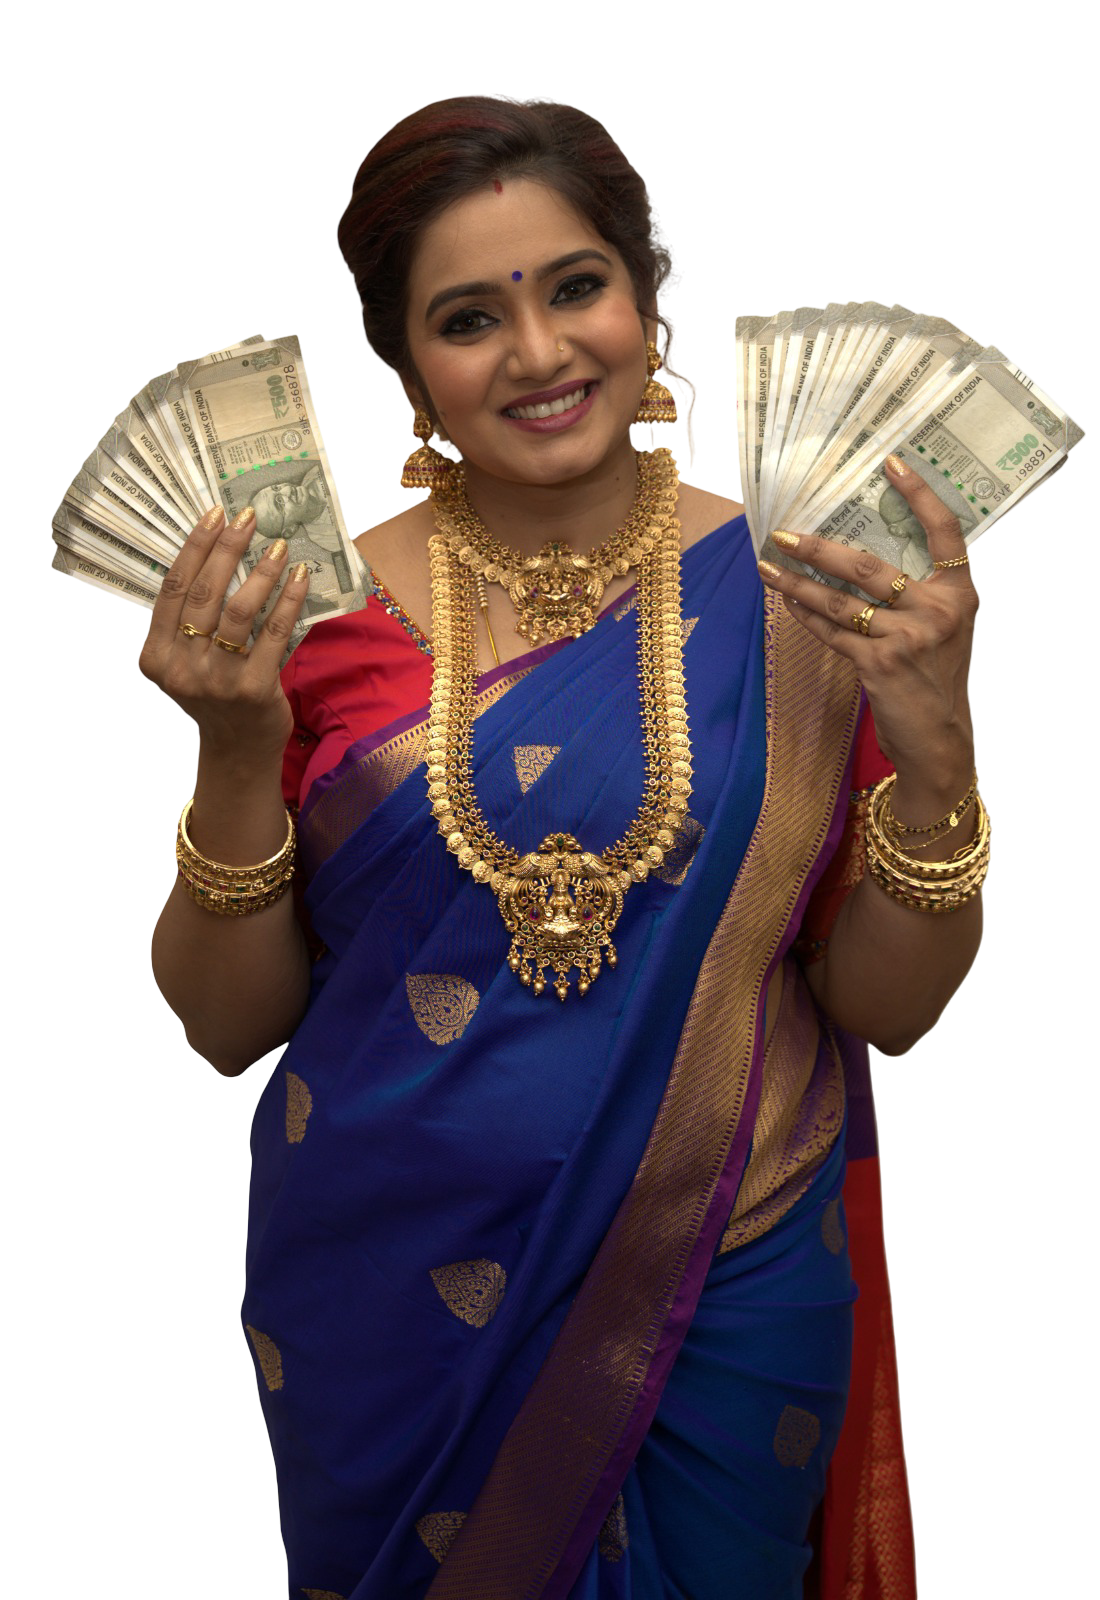
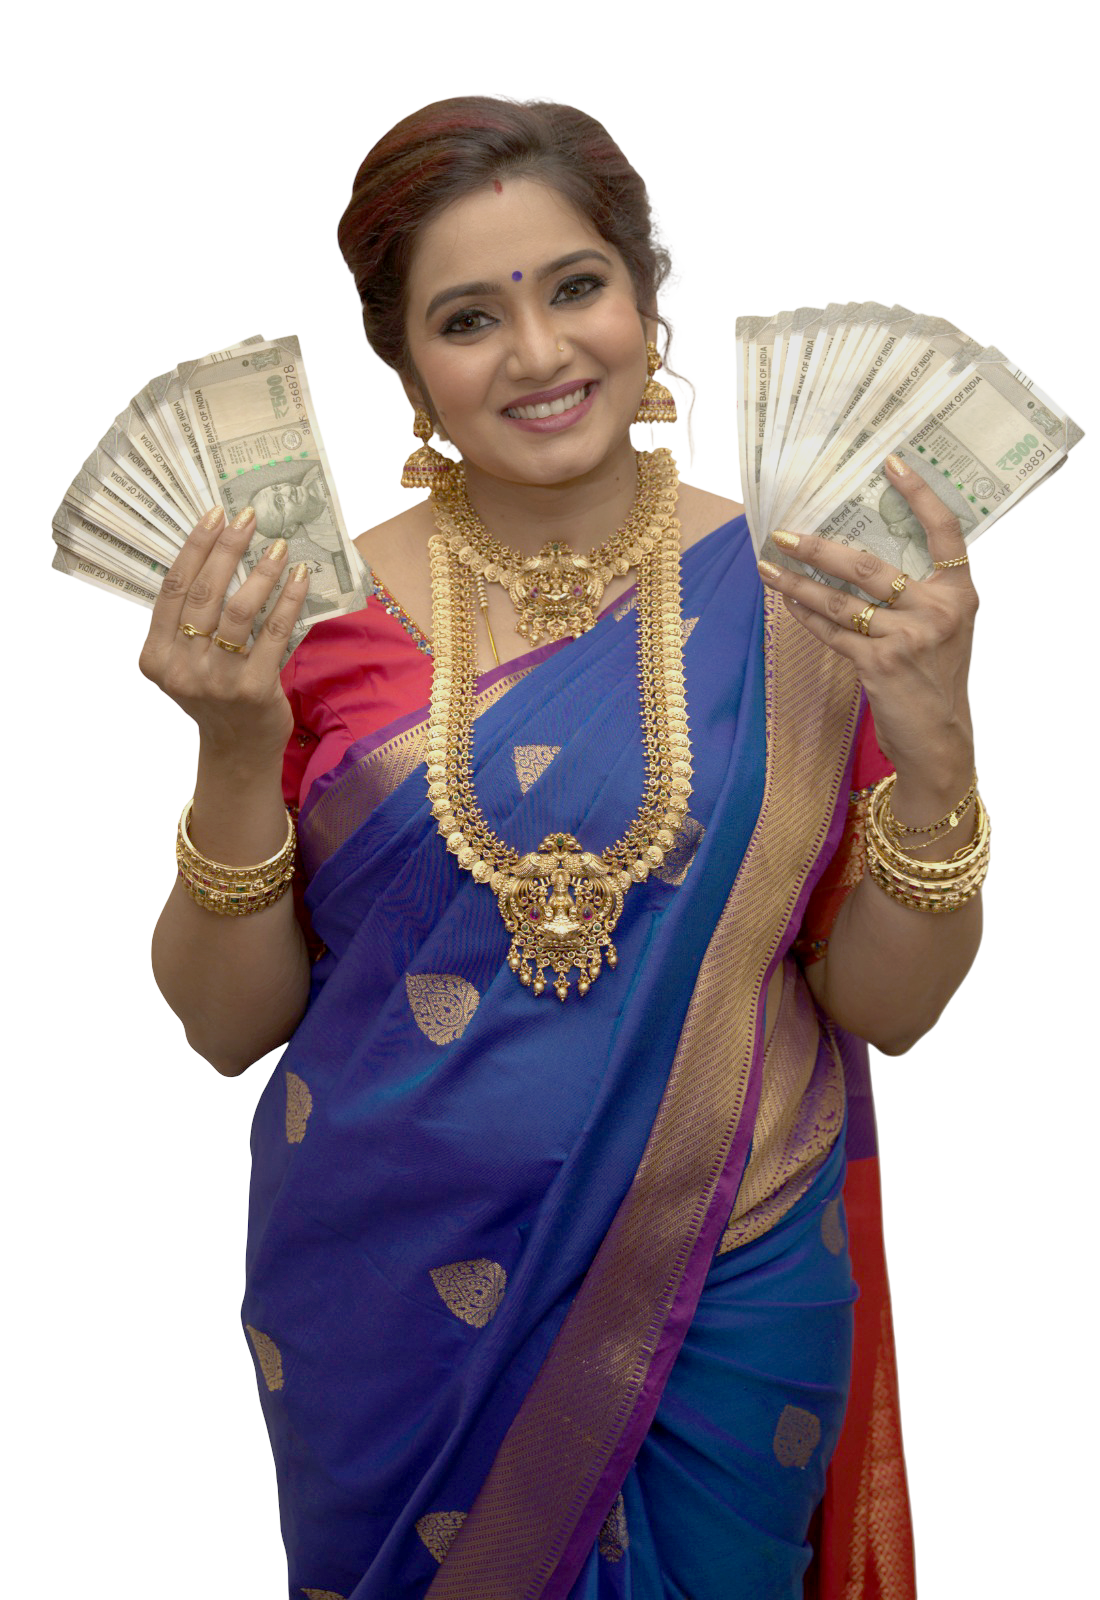
update'

diff --git a/style.css b/style.css
@@ -1055,10 +1055,9 @@ ul {
 .center-hero-img {
   width: 100%;
   max-width: 300px;
-  height: 430px;
+  height: 780px;
   object-fit: contain;
   object-position: center bottom;
-  animation: floatY 5.5s ease-in-out infinite;
   filter: drop-shadow(0 24px 55px rgba(139, 26, 26, 0.2));
   position: relative;
   z-index: 2;
@@ -1078,7 +1077,7 @@ ul {
 
 .center-img-ring {
   position: absolute;
-  top: 50%;
+  top: 60%;
   left: 50%;
   border-radius: 50%;
   border: 1px solid var(--border-maroon);
@@ -1231,13 +1230,13 @@ ul {
 /* STATS BAR */
 .stats-bar {
   display: flex;
-  align-items: center;
+  align-items: start;
   justify-content: center;
   background: var(--bg-card);
   border: 1px solid var(--border-mid);
   border-radius: var(--radius-xl);
   padding: 22px 40px;
-  margin-top: 64px;
+  margin-top: 0px;
   box-shadow: var(--shadow-md);
   position: relative;
   overflow: hidden;
@@ -1521,7 +1520,7 @@ ul {
 ============================================ */
 .intro {
   background: var(--bg-soft);
-  padding: 100px 0;
+  padding: 50px 0 0px 0;
 }
 
 .intro__grid {

diff --git a/index.html b/index.html
@@ -148,7 +148,7 @@
               <div class="center-img-ring ring-1"></div>
               <div class="center-img-ring ring-2"></div>
               <div class="center-img-ring ring-3"></div>
-              <img src="./img/Group 41.png" alt="Woman with gold jewelry" class="center-hero-img">
+              <img src="./img/p2.png" alt="Woman with gold jewelry" class="center-hero-img">
               <div class="img-glow-floor"></div>
             </div>
           </div>